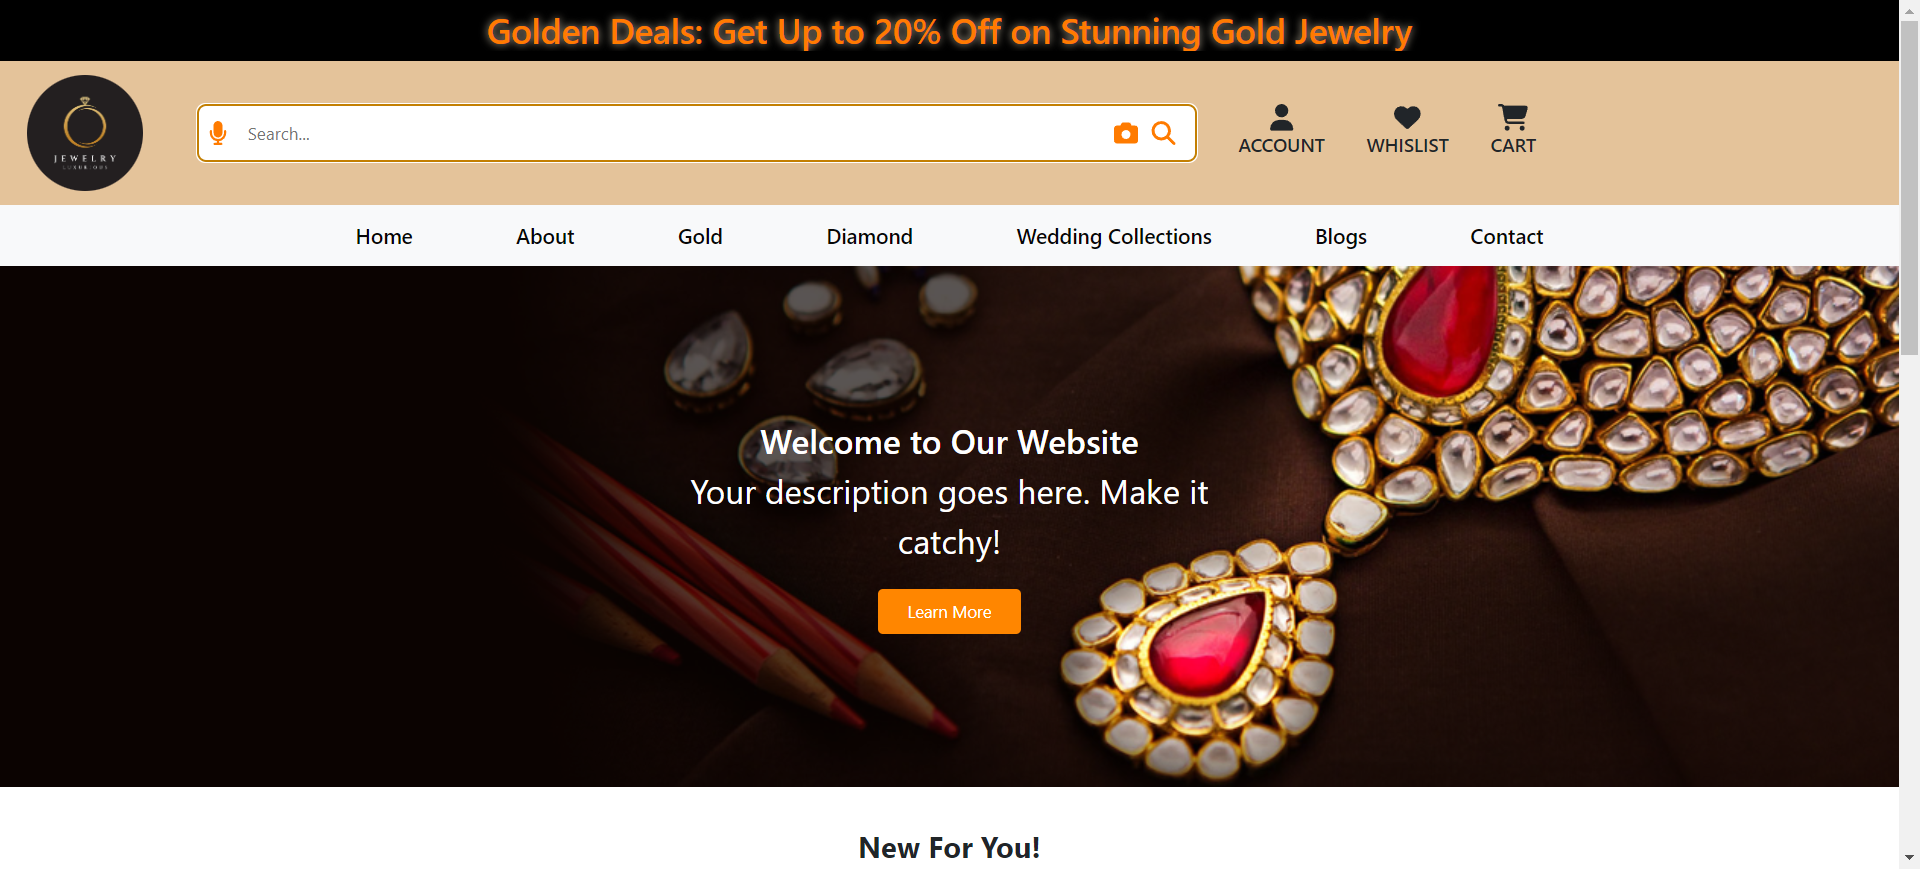
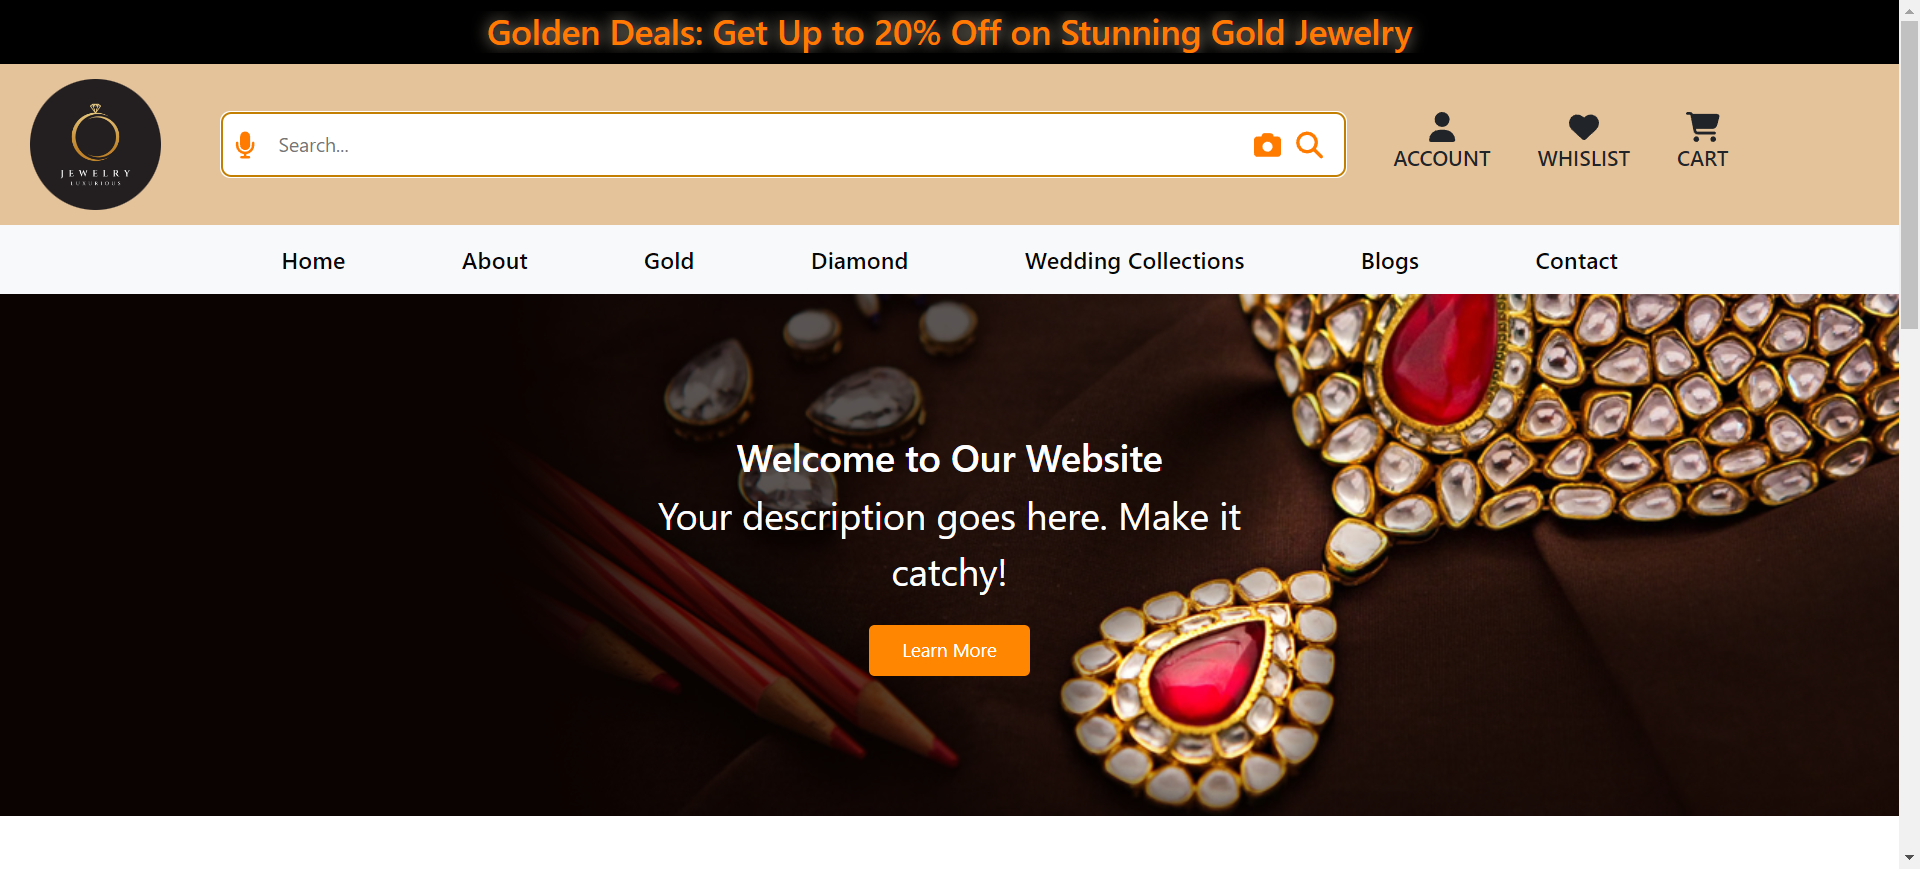
update code

Changed region(s): [[0.0, 0.0311, 1.0, 0.9942], [0.875, 0.1243, 0.9062, 0.1864], [0.8125, 0.6525, 0.8438, 0.6835]]

diff --git a/src/Componets/Projects/ProjectData.jsx b/src/Componets/Projects/ProjectData.jsx
@@ -1,19 +1,67 @@
-import project1 from "../../assets/jewellery-website.png"; // Adjust the path if necessary
+import jewellaryLogo from "../../assets/jewellery-website.png"; // Adjust the path if necessary
+import MiddleParkLogo from "../../assets/middle-park-website.png";
+import SloatMachine from "../../assets/Sloat_Machine.png";
+import LiveCovidtracker from "../../assets/CovidTracker.png";
+import NetflixImage from "../../assets/netflix-slider.png";
+import investmentCalculator from "../../assets/investment_claculator.png";
 
 export const projects = [
   {
-    image: project1,
-    altText: "Jewellery Website 1",
-    title: "Jewellery Website 1",
+    image: jewellaryLogo,
+    altText: "Jewellery Website",
+    title: "Jewellery Website",
     description: "A stunning jewellery website with a modern design.",
-    link: "https://example.com/project1",
+    link: "",
+    gitLink:
+      "https://github.com/jitixasutariya/jewellary-shop?tab=readme-ov-file", // Add GitHub link here
   },
   {
-    image: project1,
-    altText: "Jewellery Website 2",
-    title: "Jewellery Website 2",
-    description: "An elegant jewellery site showcasing luxury items.",
-    link: "https://example.com/project2",
+    image: MiddleParkLogo,
+    altText: "Middle Park Primary School",
+    title: "Middle Park Primary School",
+    description:
+      "Discover Middle Park Primary School’s commitment to excellence in education and community engagement.",
+    link: "",
+    gitLink:
+      "https://github.com/MSM-SERVICES-PTY-LTD/MIDDLE_PARK_PS/tree/main/middle-park-main", // Add GitHub link here
   },
+  {
+    image: SloatMachine,
+    altText: "Sloat Machine Game",
+    title: "Sloat Machine Game",
+    description:
+      "An engaging slot machine game designed to provide entertainment and excitement",
+    link: "",
+    gitLink: "https://github.com/jitixasutariya/sloat-machine-game", // Add GitHub link here
+  },
+  {
+    image: LiveCovidtracker,
+    altText: "Live Covidtracker",
+    title: "Live Covidtracker",
+    description:
+      "A real-time Covid-19 tracking application that provides up-to-date information on Covid-19 statistics worldwide.",
+    link: "",
+    gitLink: "https://github.com/jitixasutariya/live-covidtracker", // GitHub link
+  },
+  {
+    image: NetflixImage,
+    altText: "Netflix Website",
+    title: "Netflix Website",
+    description:
+      "A clone of the Netflix website showcasing a responsive design with dynamic content loading and user interface similar to the original. The project demonstrates advanced front-end development skills with React, CSS, and responsive design techniques.",
+    link: "",
+    gitLink:
+      "https://github.com/jitixasutariya/netflix-website?tab=readme-ov-file", // GitHub link
+  },
+  {
+    image: investmentCalculator,
+    altText: "Investment Calculator",
+    title: "Investment Calculator",
+    description:
+      "A tool for estimating investment returns with real-time calculations and user-friendly interface.",
+    link: "",
+    gitLink: "https://github.com/jitixasutariya/investment-calculator", // GitHub link
+  },
+
   // Add more project objects as needed
 ];

diff --git a/src/Componets/Projects/Projects.jsx b/src/Componets/Projects/Projects.jsx
@@ -193,9 +193,9 @@ const Projects = () => {
               alt={selectedProject.altText}
               style={{ width: "100%", borderRadius: "10px" }}
             />
-            {selectedProject.link && (
+            {selectedProject.gitLink && (
               <ProjectLink
-                href={selectedProject.link}
+                href={selectedProject.gitLink}
                 target="_blank"
                 rel="noopener noreferrer"
               >

diff --git a/src/Componets/NavBar/NavBar.jsx b/src/Componets/NavBar/NavBar.jsx
@@ -38,7 +38,7 @@ const NavLink = styled(Link)`
   display: inline-block;
   margin: 0 0.75rem;
   color: #fff;
-  font-size: 1.1rem;
+  font-size: 1.2rem;
   text-decoration: none;
   cursor: pointer;
   transition: color 0.3s ease;
